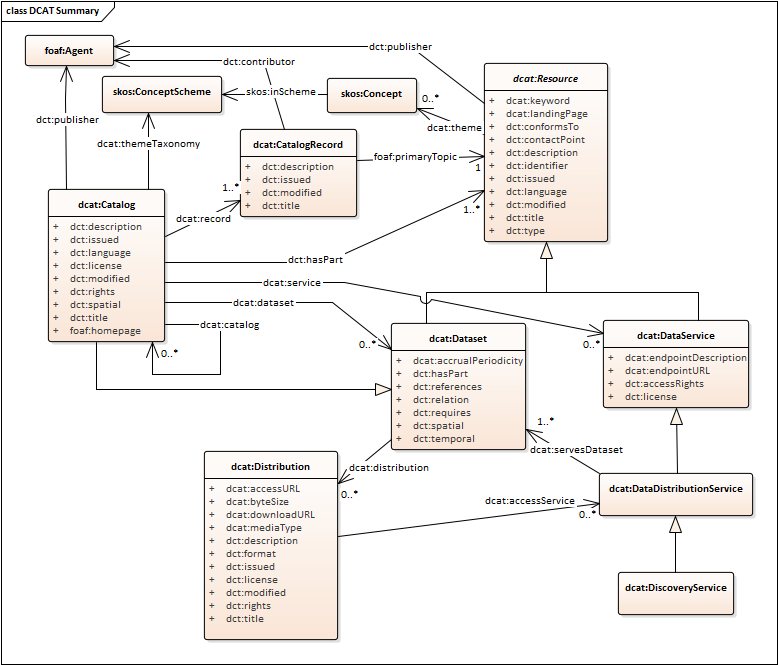
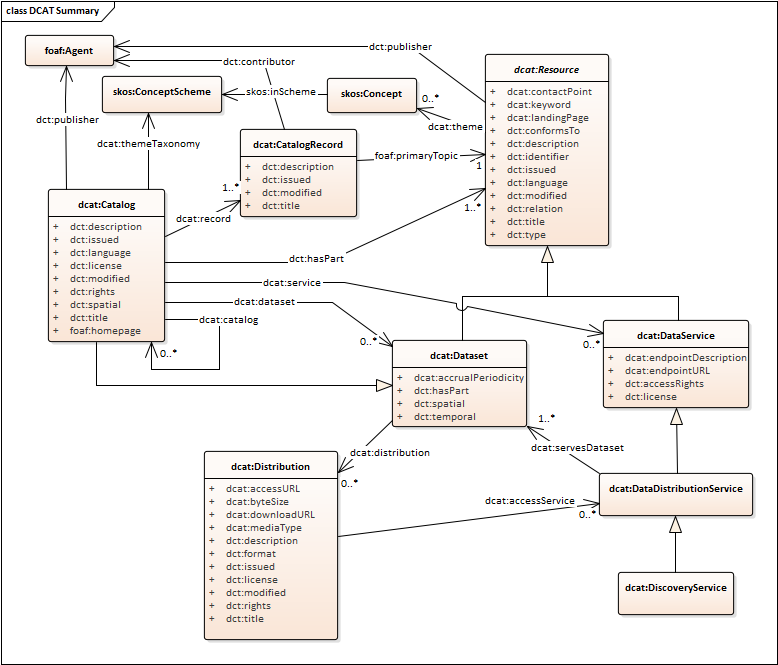
More dct:relation up to dcat:Resource class, and remove specific description of dct:requires and dct:references since any specialization of dct:relation can be substituted

diff --git a/dcat/index.html b/dcat/index.html
@@ -902,9 +902,6 @@ into a separate named graph. The name of that graph should be the IRI of the cat
 	<a href="#Property:dataset_distribution">distribution</a>,
 	<a href="#Property:dataset_frequency">frequency</a>,
 	<a href="#Property:dataset_hasPart">hasPart</a>,
-	<a href="#Property:dataset_relation">relation</a>,
-	<a href="#Property:dataset_references">references</a>,
-	<a href="#Property:dataset_requires">requires</a>,
 	<a href="#Property:dataset_spatial">spatial coverage</a>,
 	<a href="#Property:dataset_temporal">temporal coverage</a>
 </p>
@@ -961,31 +958,6 @@ into a separate named graph. The name of that graph should be the IRI of the cat
 	This relationship has been removed in the revised DCAT vocabulary - see <a href="https://github.com/w3c/dxwg/issues/98">Issue #98</a>.
 </p>
 
-<section id="Property:dataset_relation">
-<h4>Property: dataset relation</h4>
-
-<table class="definition">
-  <thead><tr><th>RDF Property:</th><th><a href="http://purl.org/dc/terms/relation">dct:relation</a></th></tr></thead>
-  <tbody>
-    <tr><td class="prop">Definition:</td><td>Connects a dataset to resources related to it.</td></tr>
-    <tr><td class="prop">Usage note:</td><td><a href="http://purl.org/dc/terms/relation">dct:relation</a> may be used where the exact nature of the relationship between a dataset and related resources is not known. One of the more specific sub-properties should be used if the semantics of the link are known.</td></tr>
-		<tr><td class="prop">See also:</td><td><a href="http://purl.org/dc/terms/conformsTo">dct:conformsTo</a>, <a href="http://www.w3.org/ns/dcat#distribution">dcat:distribution</a>, <a href="http://purl.org/dc/terms/hasPart">dct:hasPart</a>, <a href="http://purl.org/dc/terms/references">dct:references</a>, <a href="http://purl.org/dc/terms/requires">dct:requires</a></td>
-		</tr>
-  </tbody>
-</table>
-
-<p class="note">
-	Many existing and legacy catalogues do not distinguish between dataset components, representations, documentation, schemata and other resources that are lumped together as part of a dataset.
-	Since <a href="http://purl.org/dc/terms/relation">dct:relation</a> is a super-property of <a href="http://purl.org/dc/terms/conformsTo">dct:conformsTo</a>, <a href="http://www.w3.org/ns/dcat#distribution">dcat:distribution</a>, <a href="http://purl.org/dc/terms/hasPart">dct:hasPart</a>, <a href="http://purl.org/dc/terms/references">dct:references</a> and <a href="http://purl.org/dc/terms/requires">dct:requires</a>,
-	it may be used to link a dataset to various component and supplementary resources, without being inconsistent with a subsequent reclassification to add more specific semantics.
-</p>
-
-<p class="note">
-  Use of this Dublin Core Terms property in this context added in this revision of DCAT.
-</p>
-
-</section>
-
 <section id="Property:dataset_distribution">
 <h4>Property: dataset distribution</h4>
 
@@ -1013,40 +985,6 @@ into a separate named graph. The name of that graph should be the IRI of the cat
     <tr><td class="prop">Definition:</td><td>A related resource that is a component of the described resource.</td></tr>
 		<tr><td class="prop">Sub property of:</td><td><a href="http://purl.org/dc/terms/relation">dct:relation</a></td></tr>
     <tr><td class="prop">Usage note:</td><td><a href="http://purl.org/dc/terms/hasPart">dct:hasPart</a> may be used for general whole-to-part relationships to other resources. The component resource may be a <a href="http://www.w3.org/ns/dcat#Dataset">dcat:Dataset</a> in its own right, or may just be a resource that is packaged as part of a dataset in a catalog. </td></tr>
-  </tbody>
-</table>
-
-<p class="note">
-  Use of this Dublin Core Terms property in this context added in this revision of DCAT.
-</p>
-
-</section>
-
-<section id="Property:dataset_references">
-<h4>Property: dataset reference</h4>
-
-<table class="definition">
-  <thead><tr><th>RDF Property:</th><th><a href="http://purl.org/dc/terms/references">dct:references</a></th></tr></thead>
-  <tbody>
-    <tr><td class="prop">Definition:</td><td>A related resource that is referenced, cited, or otherwise pointed to by the described resource.</td></tr>
-		<tr><td class="prop">Sub property of:</td><td><a href="http://purl.org/dc/terms/relation">dct:relation</a></td></tr>
-  </tbody>
-</table>
-
-<p class="note">
-  Use of this Dublin Core Terms property in this context added in this revision of DCAT.
-</p>
-
-</section>
-
-<section id="Property:dataset_requires">
-<h4>Property: dataset requirement</h4>
-
-<table class="definition">
-  <thead><tr><th>RDF Property:</th><th><a href="http://purl.org/dc/terms/requires">dct:requires</a></th></tr></thead>
-  <tbody>
-    <tr><td class="prop">Definition:</td><td>A related resource that is required by the described resource to support its function, delivery, or coherence.</td></tr>
-		<tr><td class="prop">Sub property of:</td><td><a href="http://purl.org/dc/terms/relation">dct:relation</a></td></tr>
   </tbody>
 </table>
 
@@ -1394,6 +1332,7 @@ into a separate named graph. The name of that graph should be the IRI of the cat
 <a href="#Property:resource_keyword">keyword</a>,
 <a href="#Property:resource_landingpage">landing page</a>,
 <a href="#Property:resource_language">language</a>,
+<a href="#Property:resource_relation">relation</a>,
 <a href="#Property:resource_publisher">publisher</a>,
 <a href="#Property:resource_release_date">release date</a>,
 <a href="#Property:resource_theme">theme</a>,
@@ -1613,6 +1552,31 @@ If a ISO 639-1 (two-letter) code is defined for language, then its corresponding
 		</ol> To describe the file format, physical medium, or dimensions of the resource, use the <a href="http://purl.org/dc/terms/format">dct:format element</a>.</td></tr>
   </tbody>
 </table>
+</section>
+
+<section id="Property:resource_relation">
+<h4>Property: resource relation</h4>
+
+<table class="definition">
+  <thead><tr><th>RDF Property:</th><th><a href="http://purl.org/dc/terms/relation">dct:relation</a></th></tr></thead>
+  <tbody>
+    <tr><td class="prop">Definition:</td><td>Connects a catalogued item to other resources related to it.</td></tr>
+    <tr><td class="prop">Usage note:</td><td><a href="http://purl.org/dc/terms/relation">dct:relation</a> may be used where the exact nature of the relationship between a catlaogued item and related resources is not known. A more specific sub-properties should be used if the semantics of the link are known.</td></tr>
+		<tr><td class="prop">See also:</td><td><a href="http://purl.org/dc/terms/conformsTo">dct:conformsTo</a>, <a href="http://www.w3.org/ns/dcat#distribution">dcat:distribution</a>, <a href="http://purl.org/dc/terms/hasPart">dct:hasPart</a>, <a href="http://purl.org/dc/terms/hasFormat">dct:hasFormat</a>, <a href="http://purl.org/dc/terms/isFormatOf">dct:isFormatOf</a>, <a href="http://purl.org/dc/terms/references">dct:references</a>, <a href="http://purl.org/dc/terms/requires">dct:requires</a></td>
+		</tr>
+  </tbody>
+</table>
+
+<p class="note">
+	Many existing and legacy catalogues do not distinguish between dataset components, representations, documentation, schemata and other resources that are lumped together as part of a dataset.
+	Since <a href="http://purl.org/dc/terms/relation">dct:relation</a> is a super-property of <a href="http://purl.org/dc/terms/conformsTo">dct:conformsTo</a>, <a href="http://www.w3.org/ns/dcat#distribution">dcat:distribution</a>, <a href="http://purl.org/dc/terms/hasPart">dct:hasPart</a>, <a href="http://purl.org/dc/terms/hasFormat">dct:hasFormat</a>, <a href="http://purl.org/dc/terms/isFormatOf">dct:isFormatOf</a>, <a href="http://purl.org/dc/terms/references">dct:references</a>, <a href="http://purl.org/dc/terms/requires">dct:requires</a>, and a number of other Dublin Core properties.
+	It may be used to link a dataset to various component and supplementary resources, While not being inconsistent with a subsequent reclassification with more specific semantics.
+</p>
+
+<p class="note">
+  Use of this Dublin Core Terms property in this context added in this revision of DCAT.
+</p>
+
 </section>
 
 <section id="Property:resource_conformsto">
